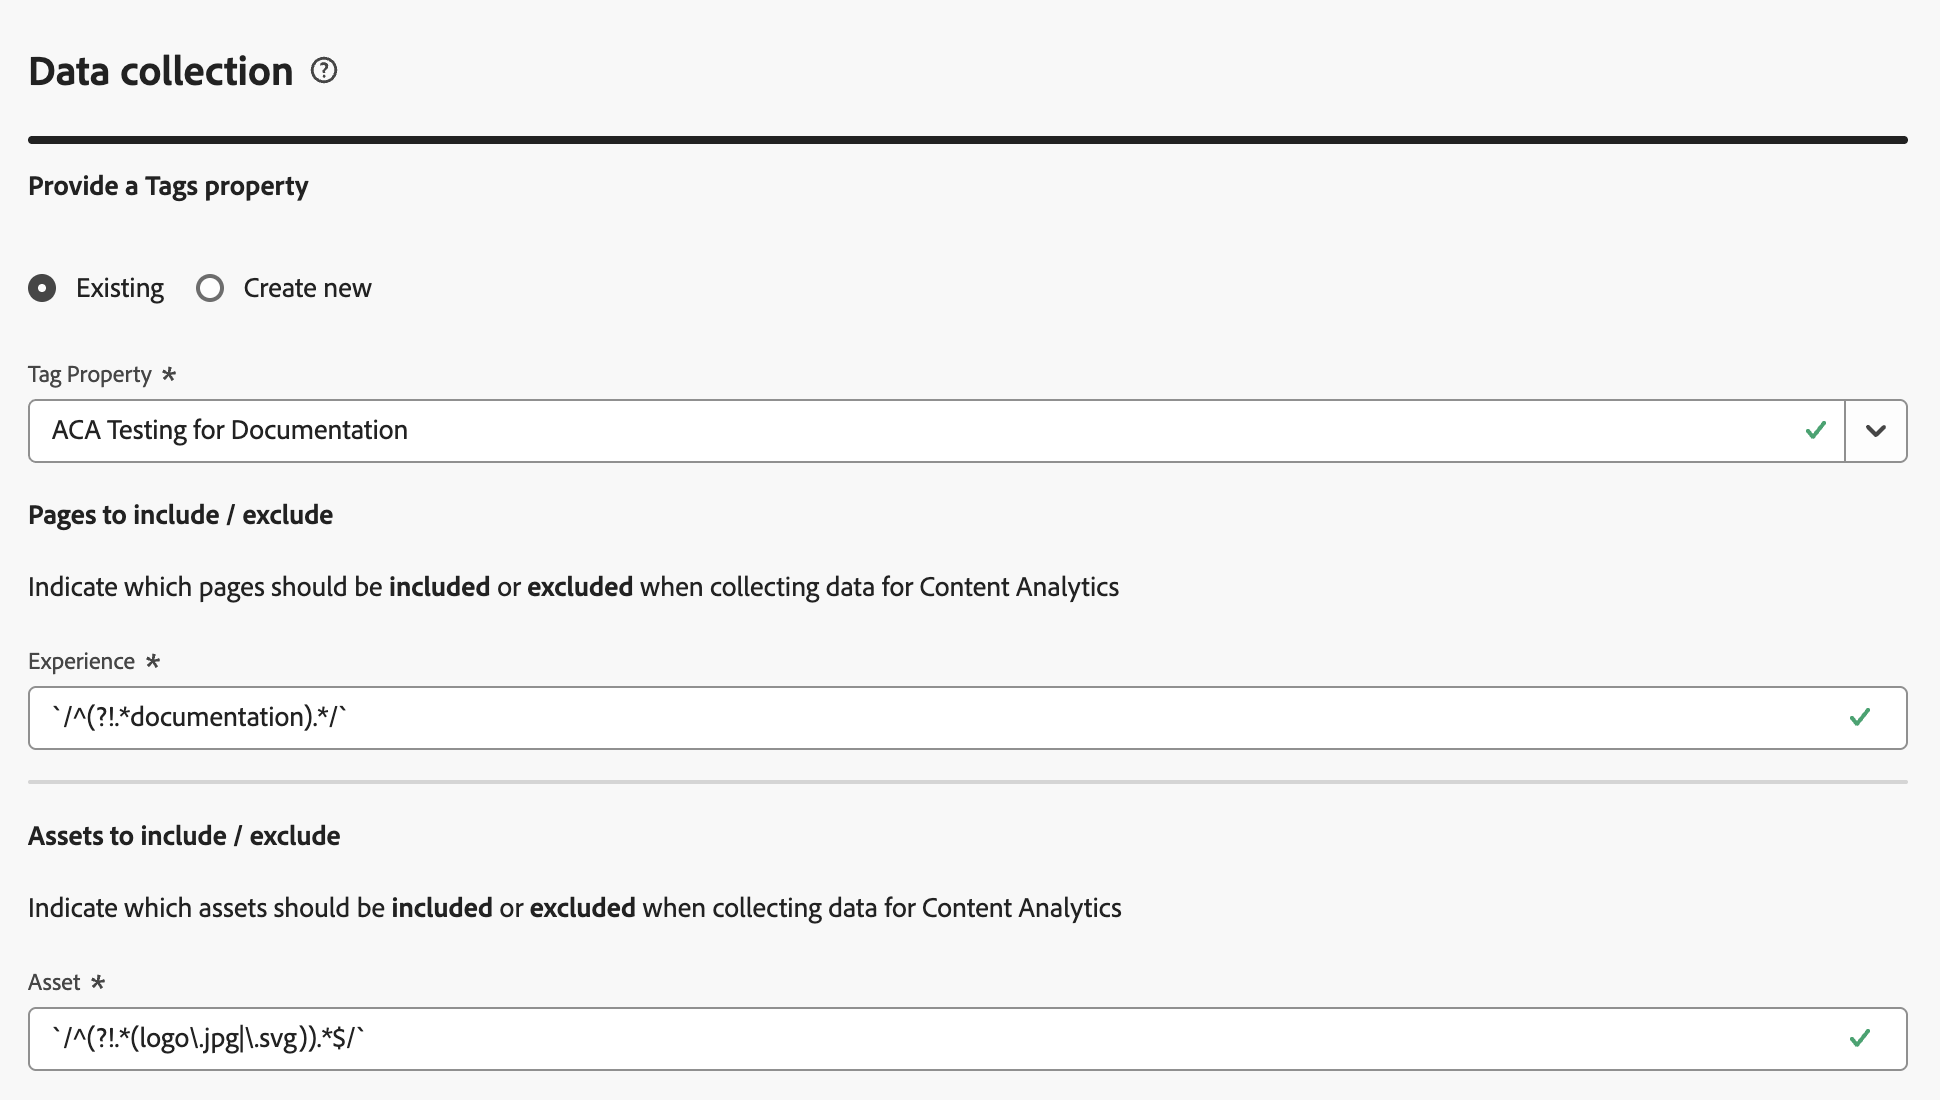
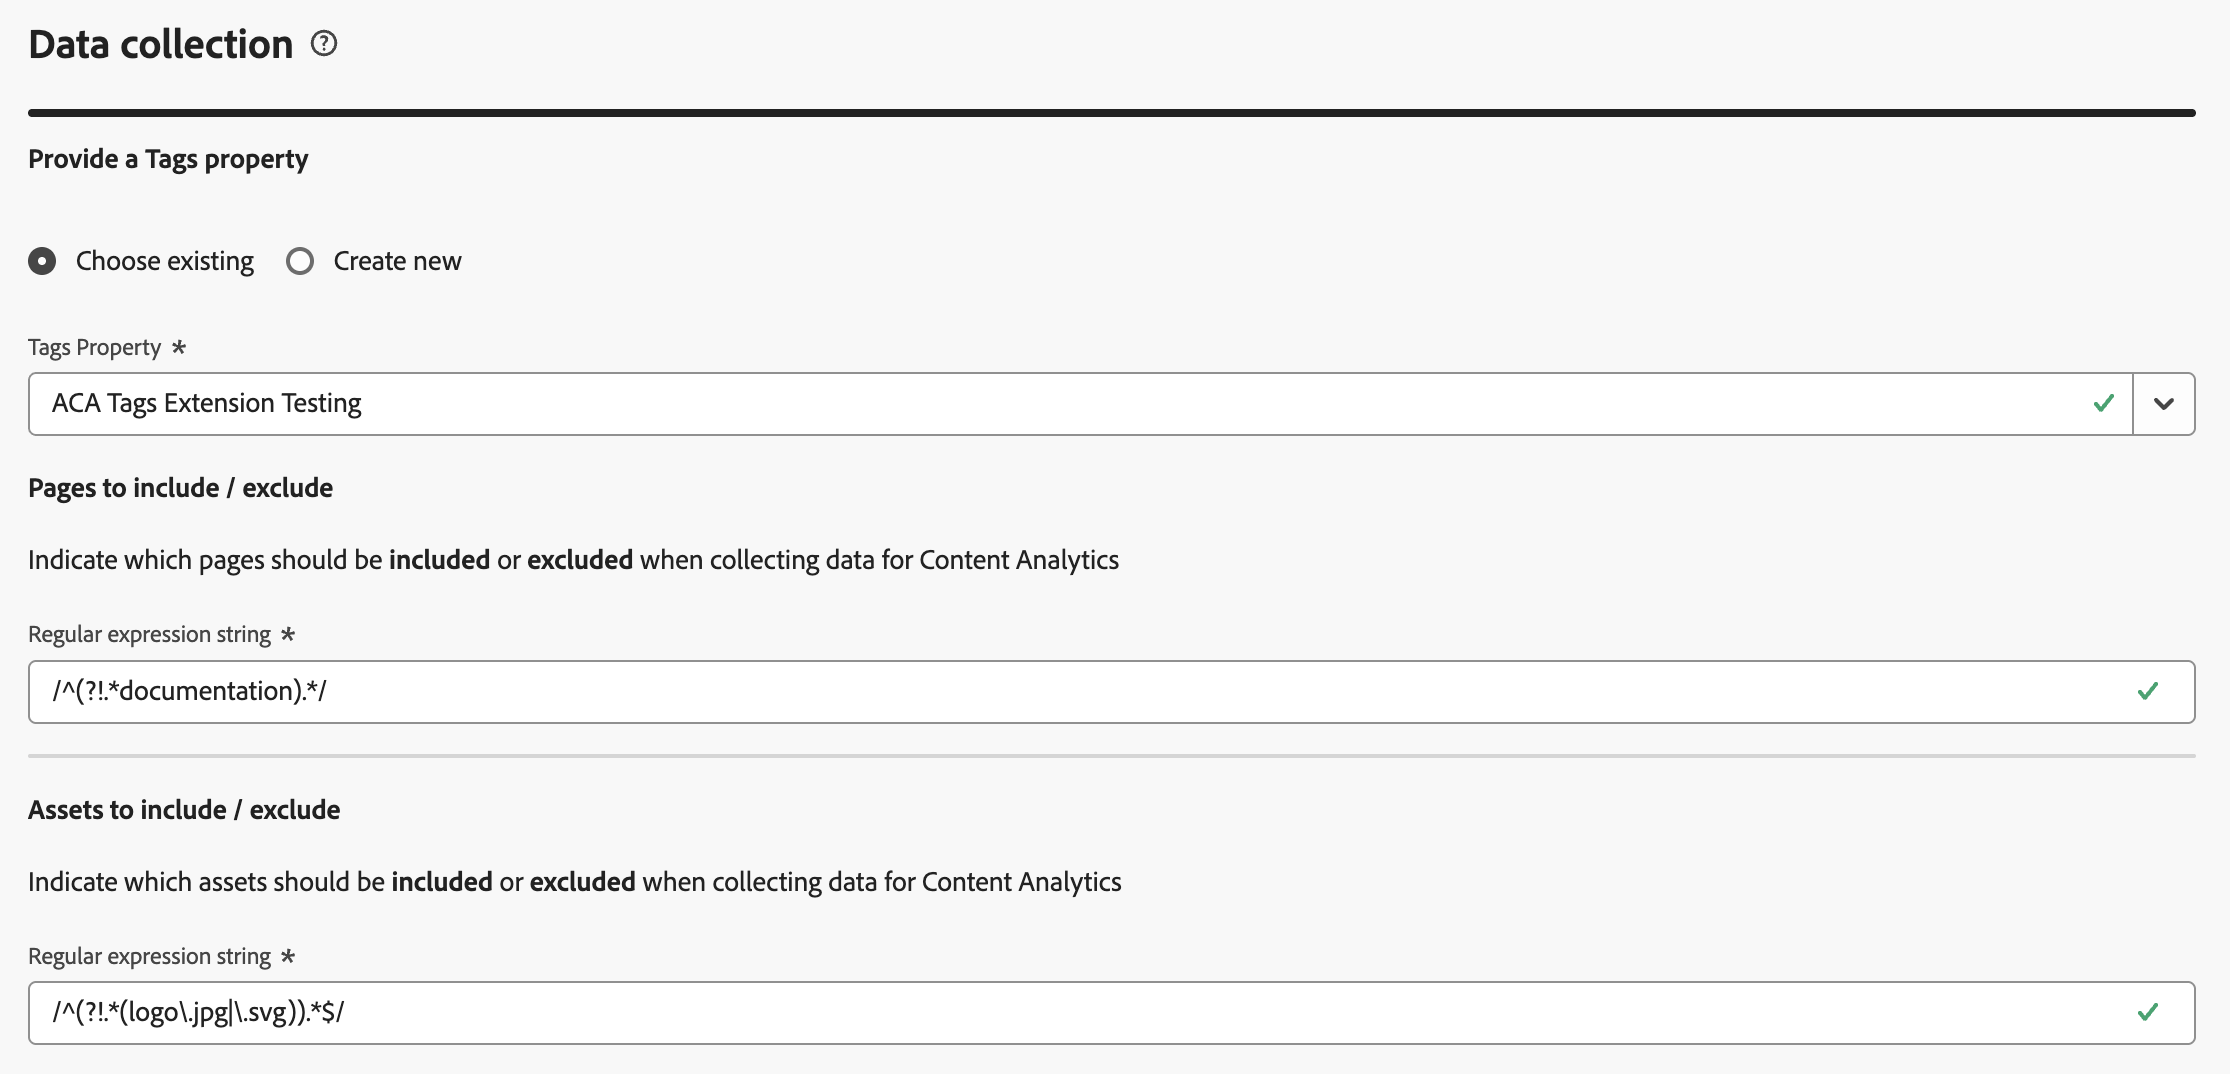
Updates

diff --git a/help/content-analytics/config/guided.md b/help/content-analytics/config/guided.md
@@ -256,7 +256,7 @@ In a new configuration, you need to define whether you want to use an existing T
 
     ![Content Analytics Data Collection Existing Tag](../assets/aca-configuration-datacollection-existingtag.png)
 
-    1. Select **[!UICONTROL Existing]**.
+    1. Select **[!UICONTROL Choose existing]**.
     2. Select an existing property from the **[!UICONTROL Tags property]** dropdown menu. You can start typing to search for and limit the available options.
 
 * To create a new Tags property:
@@ -265,16 +265,15 @@ In a new configuration, you need to define whether you want to use an existing T
 
     1. Select **[!UICONTROL Create new]**.
     1. Specify a **[!UICONTROL Tags name]**, for example `ACA Test for Documentation`.
-    <!--1. Specify **[!UICONTROL Domains]**, for example, `example.com`. -->
-    1. Select **[!UICONTROL Add]**.
+    1. Specify **[!UICONTROL Domains]**, for example, `example.com`.
 
 * If you have selected to include experiences, indicate which pages should be included or excluded when collecting data for Content Analytics.
 
-  * Specify a regular expression for **[!UICONTROL Experience]**. For example: `/^(?!.*documentation).*/` to exclude all documentation pages from Content Analytics. Ensure you escape regular expressions, using `/`.
+  * Specify a Regular expression string for **[!UICONTROL Pages to include / exclude]**. For example: `/^(?!.*documentation).*/` to exclude all documentation pages from Content Analytics. Ensure you escape regular expressions, using `/`.
 
 * Indicate which assets should be included or excluded when collecting data for Content Analytics.
 
-  * Specify a regular expression for **[!UICONTROL Asset]**. For example: `/^(?!.*(logo\.jpg|\.svg)).*$/` to exclude all logo JPEG and SVG images from Content Analytics. Ensure you escape regular expressions, using `/`.
+  * Specify a Regular expression string for **[!UICONTROL Assets to include / exclude]**. For example: `/^(?!.*(logo\.jpg|\.svg)).*$/` to exclude all logo JPEG and SVG images from Content Analytics. Ensure you escape regular expressions, using `/`.
 
 
 #### Existing configuration {#existing-configuration}
